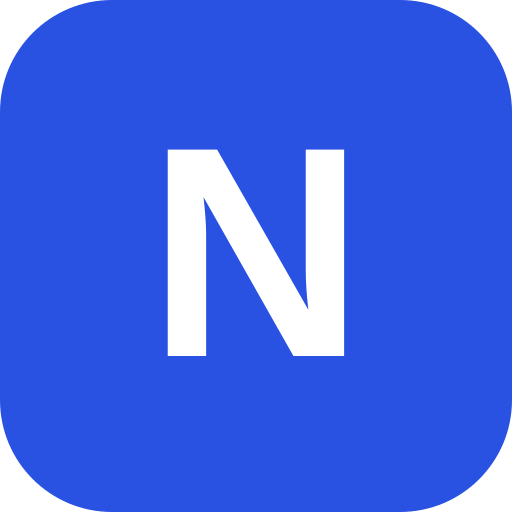
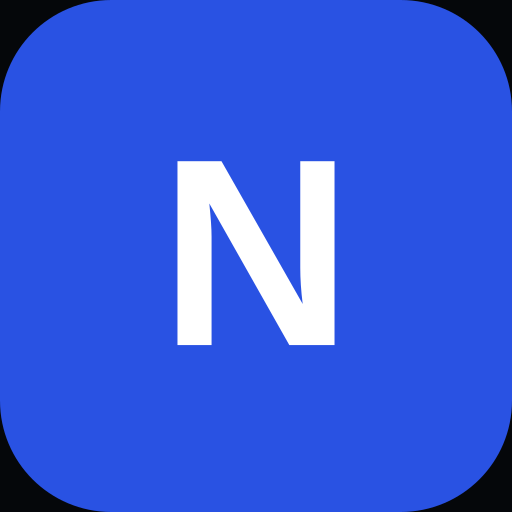
PWA: corrige nome, ícones sem transparência, start_url e scope do manifest
A instalabilidade básica (manifest.ts, ícones, meta tags) já tinha
sido publicada por outra sessão (commit 0e089b6, já em produção).
Revisão encontrou e corrigiu 5 problemas reais:

- name/description usavam "Portal Nord Pizza & Burger", mas o app
  atende várias marcas do Grupo Nord — trocado para "Portal Grupo
  Nord" (batendo com o logo do sidebar), short_name mantido curto.
- Os 4 ícones tinham canal alpha com transparência nos cantos ao
  redor do selo azul — podia deixar o papel de parede do celular
  "vazar" quando o sistema recorta o ícone numa forma diferente.
  Regenerados a partir do mesmo SVG (public/logo-nord.svg) com fundo
  sólido (preto do app nos 3 ícones normais, azul da marca no
  maskable) — confirmado sem canal alpha (PNG RGB puro).
- start_url apontava para "/portal", que só redireciona para
  "/portal/inicio" — aponta direto agora, sem a volta.
- Faltava "scope: /" no manifest — sem isso o alcance do app ficaria
  restrito a "/portal/", fazendo login e outras páginas fora dali
  escaparem do modo instalado (tela cheia).
- Faltava a tag legada "apple-mobile-web-app-capable" — iPhones com
  iOS mais antigo (antes do iOS 26) ainda dependem dela para abrir em
  tela cheia; a tag moderna sozinha não cobre esses aparelhos.

middleware.ts já expunha manifest/ícones publicamente do jeito certo
(só esses 4 arquivos, mesmo padrão do favicon) — conferido, sem
mudança necessária.

Claude-Session: https://claude.ai/code/session_01KTpukxvxAySai5k7UYWgz2

diff --git a/src/app/layout.tsx b/src/app/layout.tsx
@@ -22,6 +22,14 @@ export const metadata: Metadata = {
     statusBarStyle: "black-translucent",
     title: "Portal Nord",
   },
+  // Next.js 16 só gera a tag "mobile-web-app-capable" (padrão moderno) a
+  // partir de appleWebApp.capable. iPhones com iOS mais antigo (antes do
+  // padrão adotado no iOS 26, que já abre qualquer atalho como app) ainda
+  // dependem da tag histórica com o prefixo "apple-", então adicionamos
+  // ela manualmente para cobrir esses aparelhos também.
+  other: {
+    "apple-mobile-web-app-capable": "yes",
+  },
   icons: {
     icon: [
       { url: "/icon-192.png", sizes: "192x192", type: "image/png" },

diff --git a/src/app/manifest.ts b/src/app/manifest.ts
@@ -2,10 +2,11 @@ import type { MetadataRoute } from "next";
 
 export default function manifest(): MetadataRoute.Manifest {
   return {
-    name: "Portal Nord Pizza & Burger",
+    name: "Portal Grupo Nord",
     short_name: "Portal Nord",
-    description: "Portal administrativo da Nord Pizza & Burger",
-    start_url: "/portal",
+    description: "Portal administrativo do Grupo Nord",
+    start_url: "/portal/inicio",
+    scope: "/",
     display: "standalone",
     background_color: "#05070a",
     theme_color: "#05070a",
